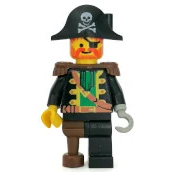
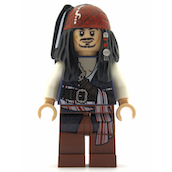
175th commit - updated pirates image and id

diff --git a/src/components/SearchResults/SortGrp.jsx b/src/components/SearchResults/SortGrp.jsx
@@ -7,21 +7,22 @@ const SortGrp = () => {
   const navigate = useNavigate();
   const [searchParams, setSearchParams] = useSearchParams();
   const [sortObj, setSortObj] = useState({
-    sortBy: "set_num", // name, set_num, year, num_parts
+    sortBy: "name", // name, set_num, num_parts, year
     sortOrder: "", // asc is "", dsc is -
     pageSize: 20,
   });
   const sortByObj = {
     sortBy: [
-      { name: "Set No", id: "set_num" },
       { name: "Name", id: "name" },
+      { name: "Set No", id: "set_num" },
       { name: "No of Parts", id: "num_parts" },
       { name: "Year", id: "year" },
     ],
   };
   // remove year if the sort group is in minifigure search
   if (location.pathname.startsWith("/minifigures")) {
-    sortByObj.sortBy.pop();
+    const findYear = sortByObj.sortBy.findIndex(obj => obj.id === "year")
+    sortByObj.sortBy.splice(findYear, 1)
   }
   const sortOrderObj = {
     sortOrder: [
@@ -55,7 +56,7 @@ const SortGrp = () => {
     } else {
       setSortObj({
         ...sortObj,
-        sortBy: searchParams.get("sortBy") ?? "set_num",
+        sortBy: searchParams.get("sortBy") ?? "name",
         sortOrder: searchParams.get("sortOrder") ?? "",
         pageSize: searchParams.get("pageSize") ?? 20,
       });

diff --git a/src/pages/Home/HomeSearchResults.jsx b/src/pages/Home/HomeSearchResults.jsx
@@ -21,7 +21,7 @@ const HomeSearchResults = ({ addToCollection }) => {
     maxParts: searchParams.get("maxParts") ?? 15000, // largest lego set so far is 11695 parts
     minYear: searchParams.get("minYear") ?? 1949, // year lego started
     maxYear: searchParams.get("maxYear") ?? maxYear, // current year
-    sortBy: searchParams.get("sortBy") ?? "set_num", // name, set_num, year, num_parts
+    sortBy: searchParams.get("sortBy") ?? "name", // name, set_num, num_parts, year
     sortOrder: searchParams.get("sortOrder") ?? "", // asc is "", dsc is -
     pageSize: searchParams.get("pageSize") ?? 20,
     pageNo: searchParams.get("pageNo") ?? 1,

diff --git a/src/components/Collection/CollectionResult.jsx b/src/components/Collection/CollectionResult.jsx
@@ -94,7 +94,7 @@ const CollectionResult = ({ collection, handleAdd, handleRemove }) => {
                 <div className="col-start-3 flex justify-end">
                   <button
                     type="button"
-                    className="flex py-2 items-center justify-center rounded-r-md text-white hover:bg-green-500 bg-slate-400 w-10 h-10"
+                    className="flex items-center justify-center rounded-r-md text-white hover:bg-green-500 bg-slate-400 w-10 h-10"
                     onClick={() => handleAdd(currentTab, result)}
                   >
                     <PlusIcon className="w-5 h-5" aria-hidden="true" />

diff --git a/src/pages/Minifigs/MinifigsSearchResults.jsx b/src/pages/Minifigs/MinifigsSearchResults.jsx
@@ -16,7 +16,7 @@ const MinifigsSearchResults = ({ addToCollection }) => {
     theme: searchParams.get("theme") ?? "",
     minParts: searchParams.get("minParts") ?? 0,
     maxParts: searchParams.get("maxParts") ?? 250, // largest lego minfigures so far is 148 parts
-    sortBy: searchParams.get("sortBy") ?? "set_num", // name, set_num, num_parts
+    sortBy: searchParams.get("sortBy") ?? "name", // name, set_num, num_parts
     sortOrder: searchParams.get("sortOrder") ?? "", // asc is "", dsc is -
     pageSize: searchParams.get("pageSize") ?? 20,
     pageNo: searchParams.get("pageNo") ?? 1,

diff --git a/src/data/recommendedMinifigThemes.js b/src/data/recommendedMinifigThemes.js
@@ -48,9 +48,9 @@ const recommendedMinifigThemes = [
     id: "435",
   },
   {
-    name: "Pirates",
+    name: "Pirates of the Caribbean",
     imageUrl: piratesImg,
-    id: "148",
+    id: "263",
   },
   {
     name: "Space",
